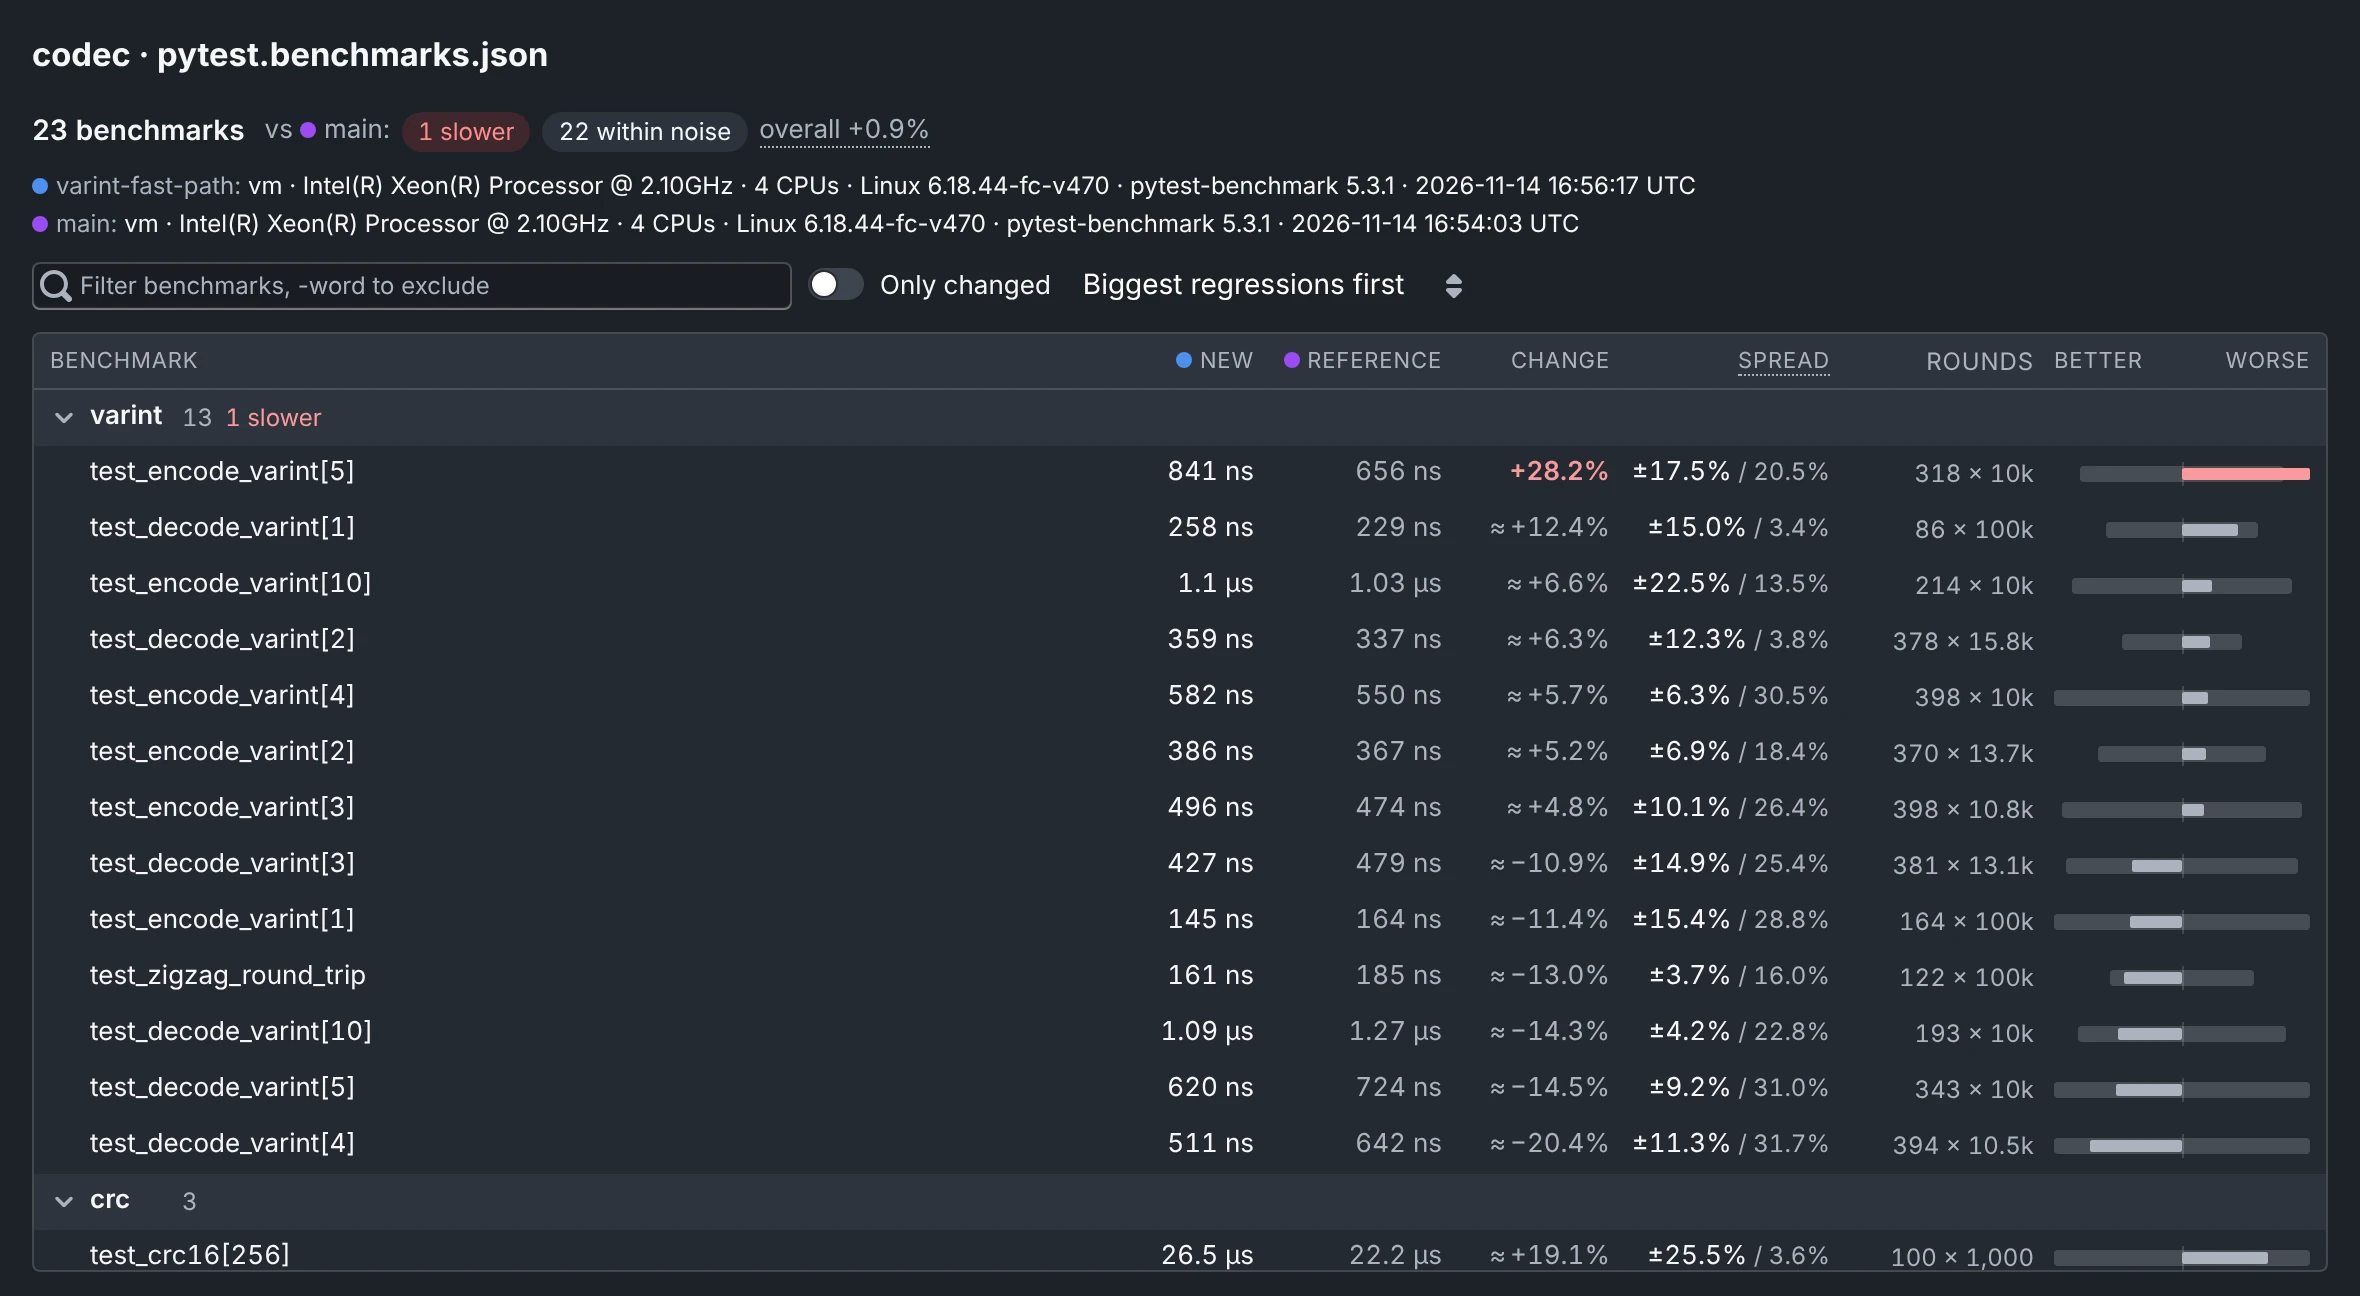
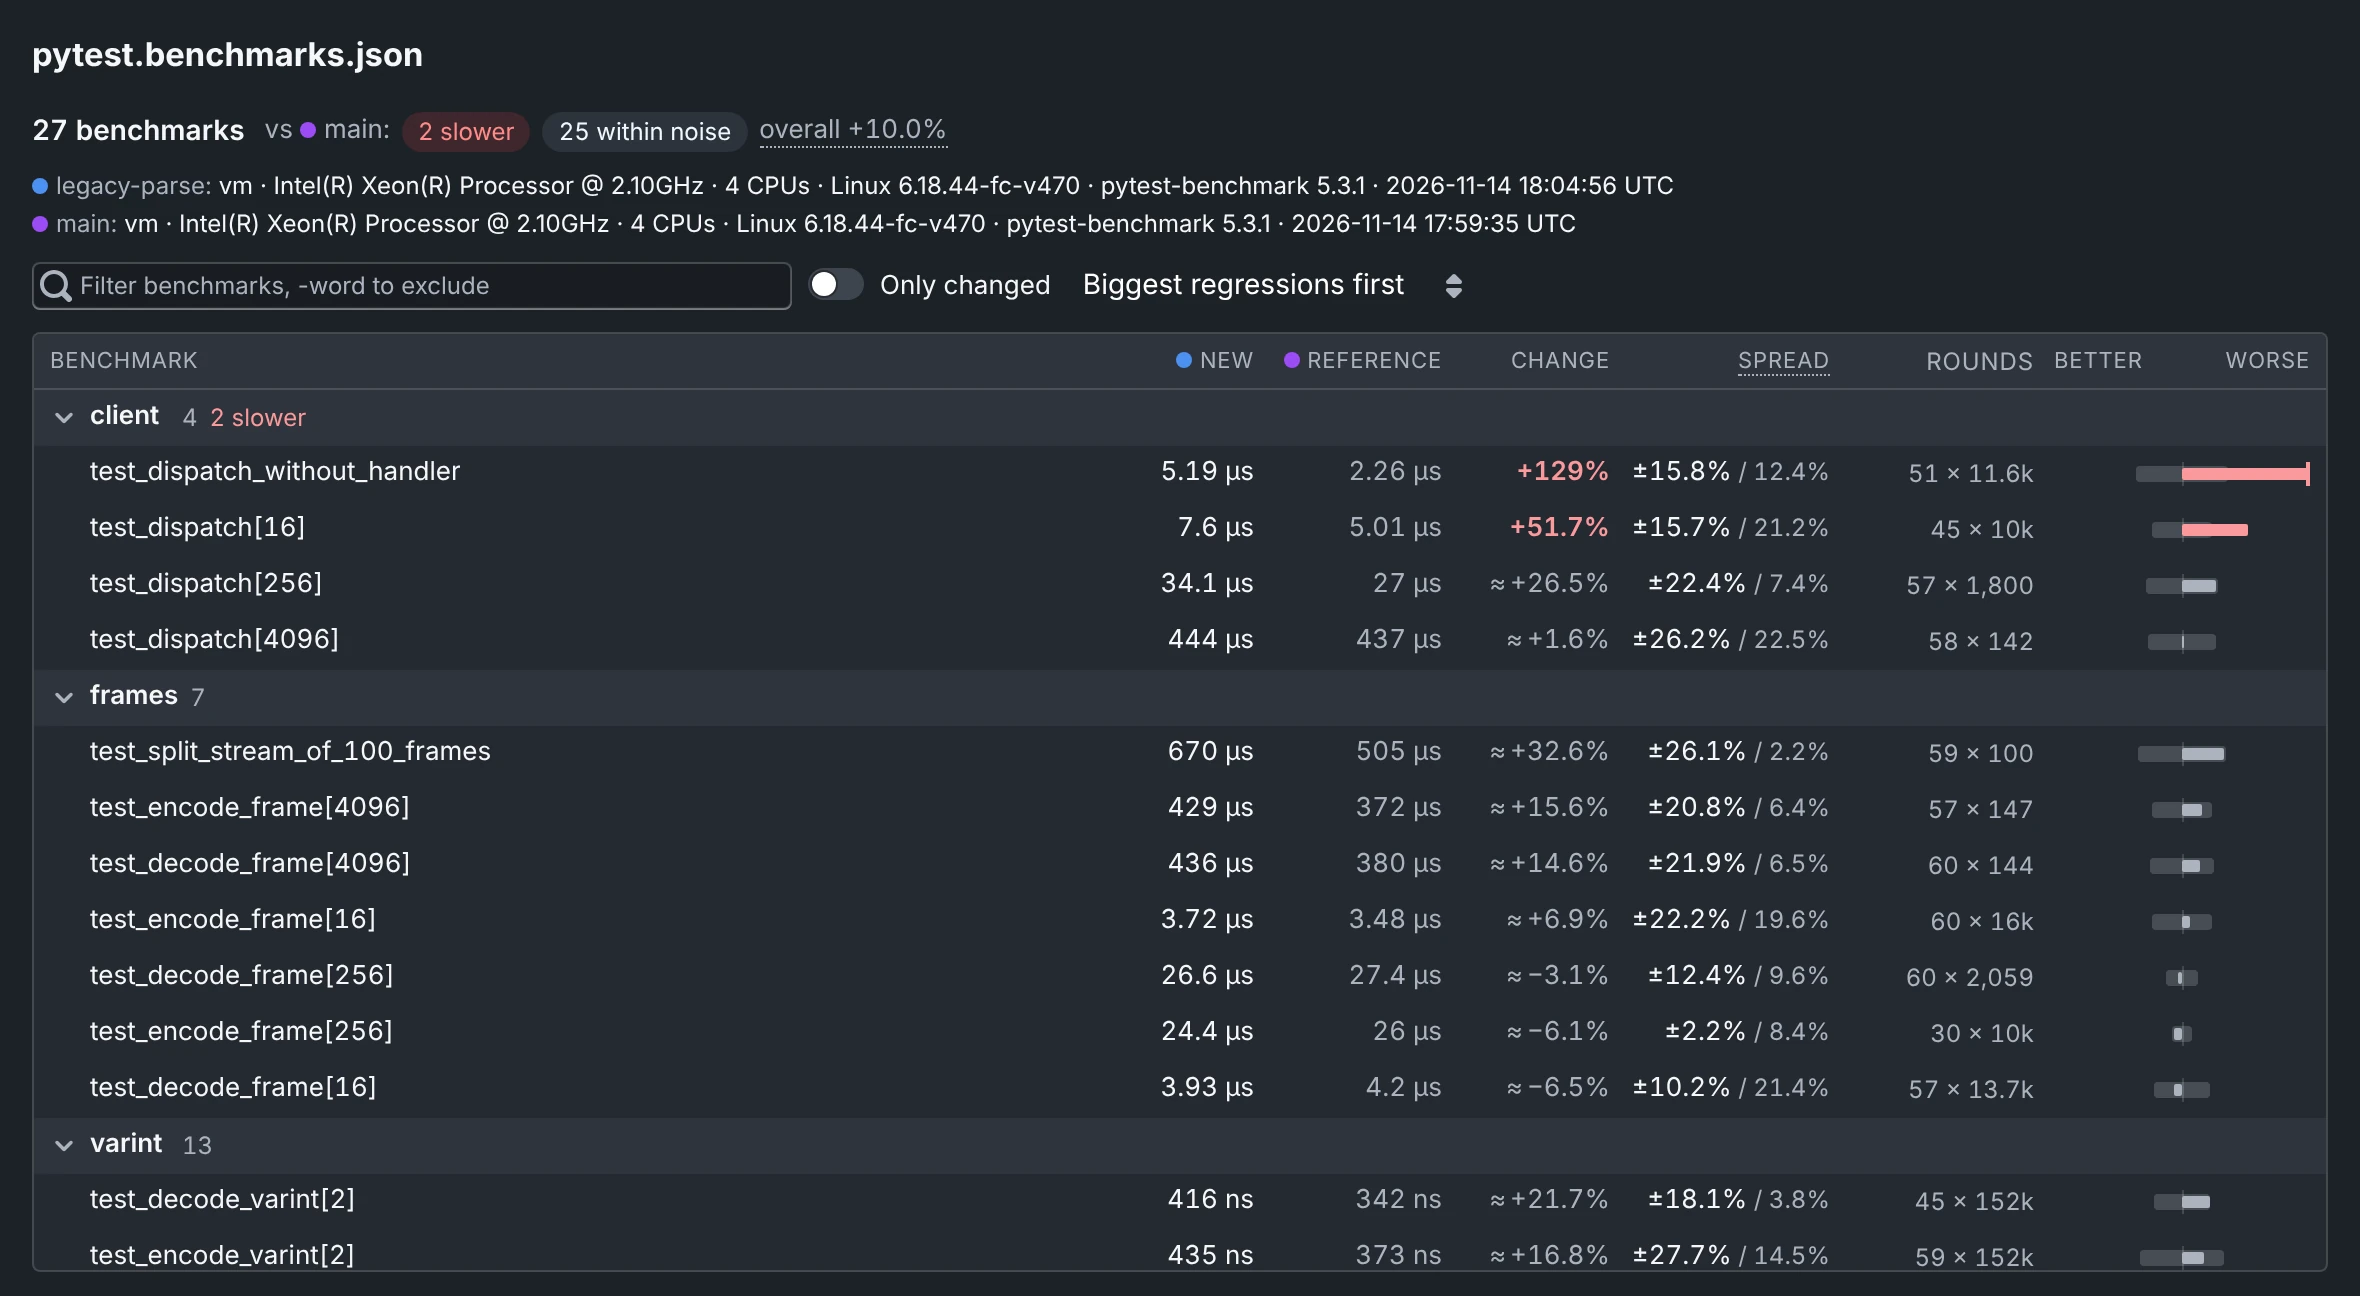
Benchmark stand-in: the deprecated parse() in the client, slower beyond noise; TODO updated
Claude-Session: https://claude.ai/code/session_01BDLPrYDxJNzGXeayCihfpK

diff --git a/docs/TODO.md b/docs/TODO.md
@@ -11,10 +11,11 @@ The shot list is `docs-media/shots.yaml`, how to capture is `docs-media/README.m
   viewer before November 2026, so the pages use `commit/flame-top-functions`, which is a stand-in from the playground.
   Once both are published: delete the stand-in, and give `commit/flame-diff` its pages back where the table isn't
   the point (`pages:` in `shots.yaml`).
-- **`commit/benchmarks` is a stand-in**: no demo project saves a benchmark file. `examples/software-quality/benchmarks/`
-  has the suite it was measured with. To capture it: a batch that runs it and saves *pytest.benchmarks.json*, the
-  visualization in the example's *qaboard.yaml*, a story step, a spec in `docs-media/shots/commit.spec.ts`, then a reseed.
-  On a quiet machine: the stand-in's VM has spreads of 5-30%, so only one change shows beyond noise.
+- **`commit/benchmarks` is a stand-in**, made by `docs-media/standins/make.py` (so is `commit/flame-top-functions`):
+  no demo project saves a benchmark file. `examples/software-quality/benchmarks/` has the suite. To capture it from
+  the demo stack: a batch that runs it and saves *pytest.benchmarks.json*, the visualization in the example's
+  *qaboard.yaml*, a spec in `docs-media/shots/commit.spec.ts`, then a reseed. Or keep the stand-in: run the script
+  again on a quiet machine, the VM it ran on has spreads of 10-25%.
 - **The other stand-ins** wait for a story or a spec: `ci/pr-comment`, `commit/attempt-tag` and `logs/attempts`
   (seed.py has no reruns), `project-admin/gate`. See their `needs:` in `shots.yaml`.
 - **Reseed the snapshot**: the robotics and agent shots were captured from local seeds of their stories, and
@@ -29,22 +30,20 @@ The shot list is `docs-media/shots.yaml`, how to capture is `docs-media/README.m
   device metrics override for the screencast) would need the clip budgets checked again.
 
 ## Docs
-- **`slides/flame-graphs.jpg`** (blog, June 2020) is the last screenshot from before the overhaul: check it for
-  internal names, then keep it as the post's picture of its time or drop it.
+- **`slides/flame-graphs.jpg`** (blog, June 2020) is the last screenshot from before the overhaul. It shows a
+  person's name, an internal branch and project, and class names of internal code, public since 2020: replace it with
+  a shot of the demo, or keep it as the post's picture of its time.
 - **Detection-eval numbers**: int8 results differ a little between GitHub's runners and other machines, even with the
   reference QDQ arithmetic (e.g. indoor minmax 0.0713 vs 0.0647). Quote only numbers from the published demo data.
   The story's `int8-tuned` commit uses `quant_keep_fp32: first-conv`, while the CI's `qa optimize` ranks
   `quant_keep_fp32: none` best: say "the team picked" rather than "`qa optimize` found" if a page shows the commit.
-- **Detection-eval indoor drop**: `examples/detection-eval/story.yaml`'s header and `SPEC.md` say "-40%" for indoor,
-  the demo data measures -35% (the pages say 35%).
-- **Fleet SDK, the fast path's "-30% encode time"**: the message of `varint-fast-path` in
-  `examples/software-quality/story.yaml` isn't a measurement. The example's benchmarks measure the fast path as no
-  faster, and 28% slower for 5-byte values. Reword the message, or make the fast path fast.
 - **Release notes**: publish November's note at the start of December (see `website/release-notes/_template.md`).
 
 ## Product, small
 - **Analysis view** (tuning): the frontier and plots only use the metrics selected in its tag picker; with another
   metric, the points are null and the plot is empty. (`webapp/src/components/tuning/`)
 - **Commits page**: `from=2026-09-17` showed 9/18 while `from=2026-09-10` showed 9/10: a time zone off-by-one?
+  Not reproduced by reading the code. A lead: the date picker parses what `toLocaleDateString()` wrote with
+  `new Date(str)` (`CommitsListNavbar` in `webapp/src/AppNavbar.jsx`), which depends on the browser's locale.
 - **Bit accuracy**: when both runs have a pixel hash (`md5_data`), the web app compares it instead of the file's md5,
   so it can call images identical when `qa check-bit-accuracy` wouldn't.

diff --git a/examples/software-quality/README.md b/examples/software-quality/README.md
@@ -21,7 +21,7 @@ qa batch quick                               # the 5 suites, default mode only
 python qa/main.py codec strict               # a quick look without QA-Board: the metrics as JSON
 python -m unittest discover qa/tests         # the JUnit reader's tests: pytest, GoogleTest, CTest, Surefire
 
-# the codec's micro-benchmarks (pip install pytest-benchmark): not part of the runs yet
+# the SDK's micro-benchmarks (pip install pytest-benchmark): not part of the runs yet
 pytest benchmarks -o testpaths=benchmarks --benchmark-json=pytest.benchmarks.json
 ```
 
@@ -40,7 +40,7 @@ Without `--share` or a CI, results are saved in `output/`. To see them in QA-Boa
 | `fleet_sdk/` | The SDK: codec, planning, battery, missions, client |
 | `tests/<suite>/` | Its tests, and `suite.yaml`: the package whose coverage they measure, a label, tags |
 | `tests/conftest.py` | Which tests exist at a story commit, seeded random cases |
-| `benchmarks/` | The codec's micro-benchmarks, with pytest-benchmark. No run saves their file yet: see [Benchmark suites](https://samsung.github.io/qaboard/docs/benchmarks) to wire them |
+| `benchmarks/` | The codec's and the client's micro-benchmarks, with pytest-benchmark. No run saves their file yet: see [Benchmark suites](https://samsung.github.io/qaboard/docs/benchmarks) to wire them |
 
 **Your own test runner:** keep `qa/junit.py` and `qa/report.py`, and change `pytest_command()` and `rerun()` in
 `qa/main.py`. GoogleTest writes the same report with `--gtest_output=xml:junit.xml` and reruns tests with
